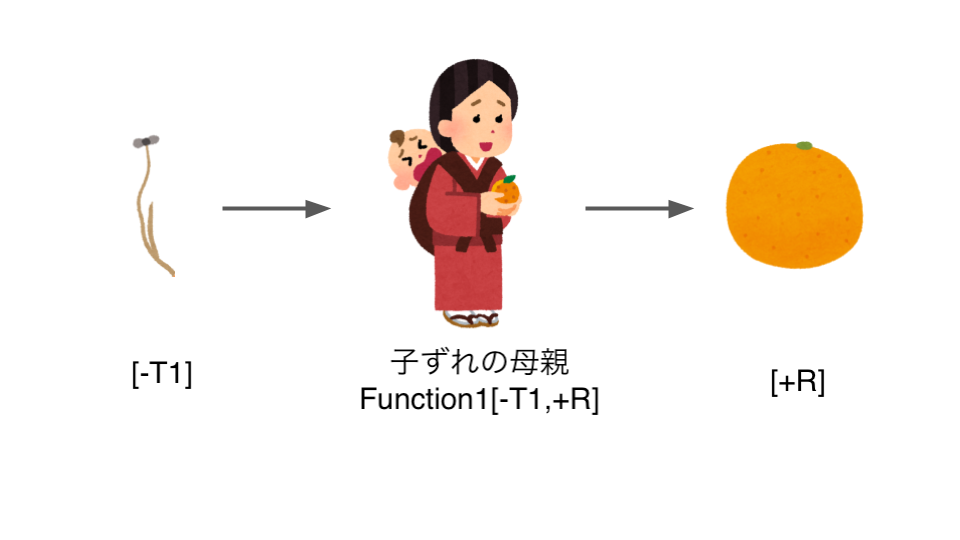
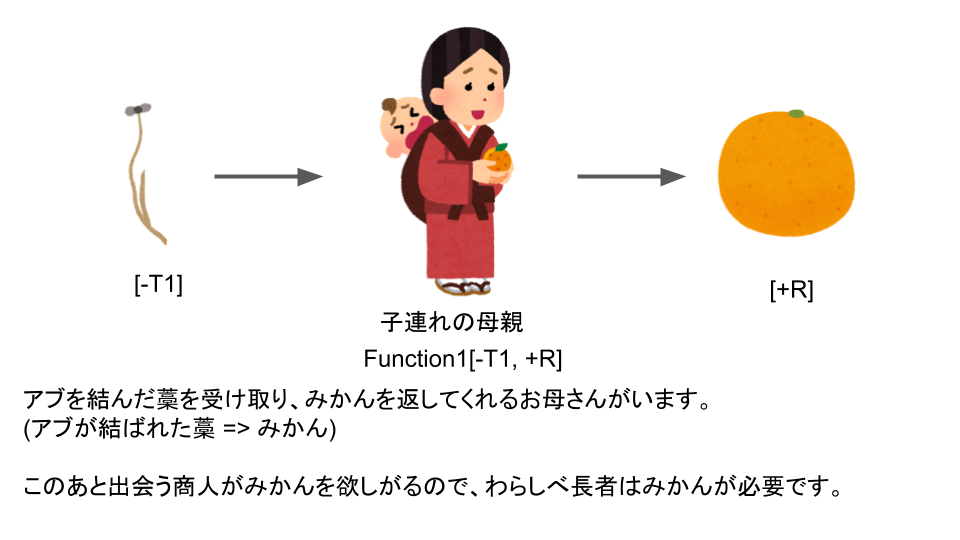
修正

diff --git a/PITCHME.md b/PITCHME.md
@@ -503,20 +503,6 @@ val 大きな屋敷の主人:馬 => 屋敷
 ---?image=img/haha0.png&position=top&size=100%
 
 
-<br>
-<br>
-
-<br>
-<br>
-
-```scala
-var 子連れの母親 : アブが結ばれた藁 => みかん
-```
-
-お母さんを関数として表すと、
-アブを結んだ藁を受け取り、みかんを返してくれるお母さんです。
-(アブが結ばれた藁 => みかん)
-
 ---
 
 では、アブが結ばれた藁を受け取り、果物を返してくれるお母さんはどうでしょうか？。
